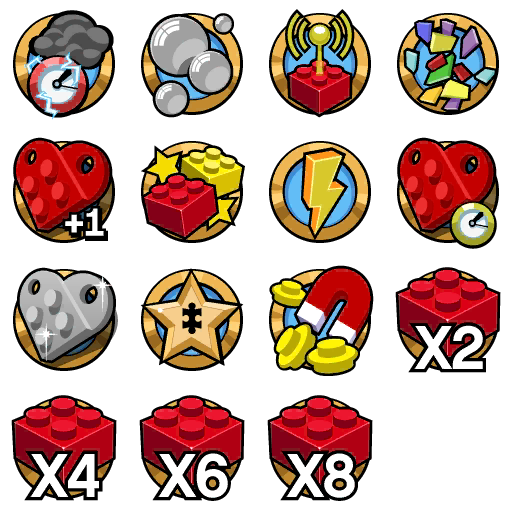
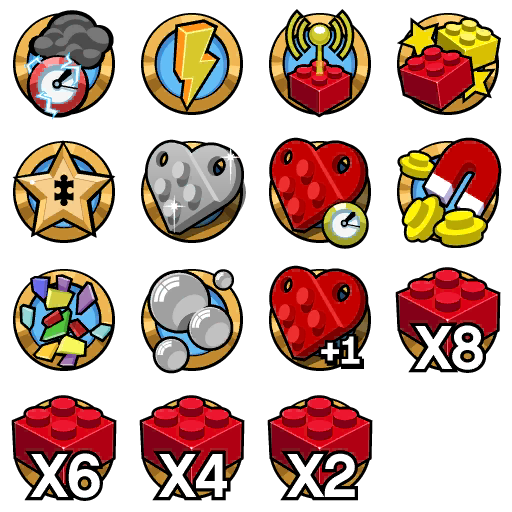
[The Lego Movie Videogame] Fix upgrades

diff --git a/the-lego-movie-videogame/data.js b/the-lego-movie-videogame/data.js
@@ -116,20 +116,20 @@ window.SavegameEditor.Constants.CHARACTERS = [
 ];
 window.SavegameEditor.Constants.UPGRADES = [
 	'Always Charged',
-	'Bubble Effects',
-	'Collectable Detector',
-	'Confetti Effects',
-	'Extra Heart',
-	'Fast Build',
 	'Fast Use',
-	'Health Regeneration',
-	'Invincibility',
+	'Collectable Detector',
+	'Fast Build',
 	'Mini Game Master',
+	'Invicibility',
+	'Health Regeneration',
 	'Stud Magnet',
-	'X2 Stud Multiplier',
-	'X4 Stud Multiplier',
+	'Confetti Effects',
+	'Bubble Effects',
+	'Extra Heart',
+	'X8 Stud Multiplier',
 	'X6 Stud Multiplier',
-	'X8 Stud Multiplier'
+	'X4 Stud Multiplier',
+	'X2 Stud Multiplier'
 ];
 window.SavegameEditor.Constants.CHAPTERS = [
 	'Prologue',
